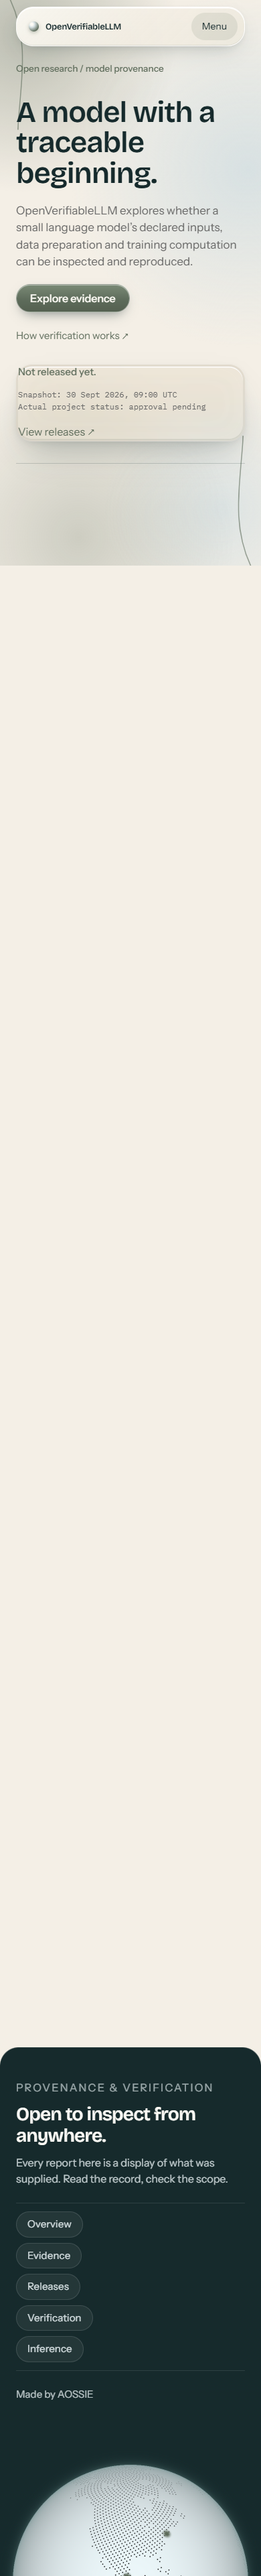
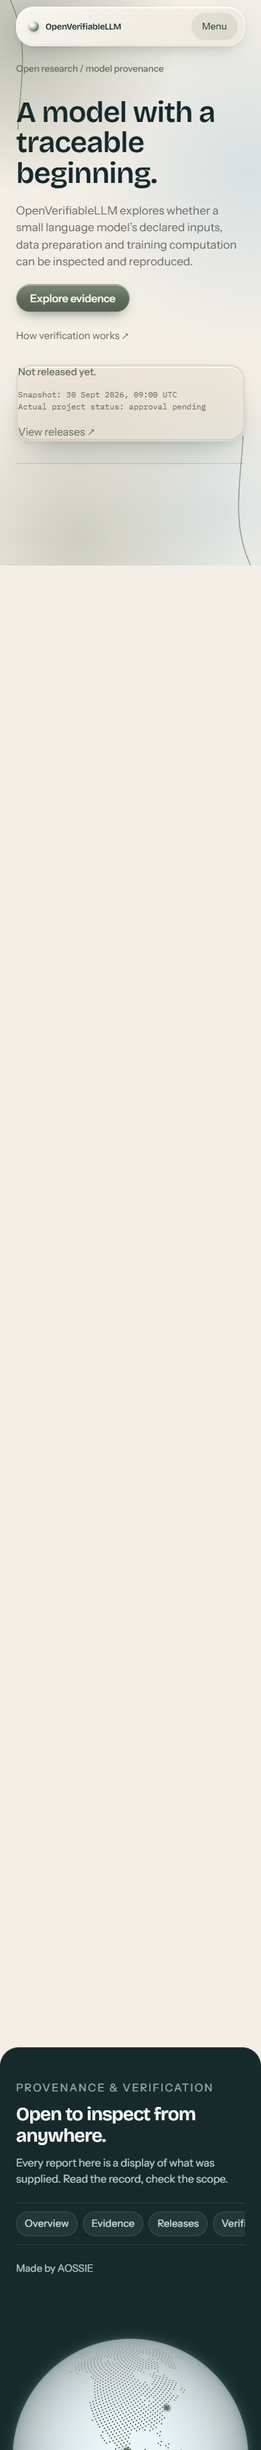
fix(mobile): arrange footer page links in single scrollable row on mobile view

diff --git a/frontend/src/styles.css b/frontend/src/styles.css
@@ -239,8 +239,12 @@ pre { white-space:pre-wrap; overflow-wrap:anywhere; max-height:360px; overflow:a
   .scroll-lines { opacity:.35; } .scroll-card-inner { padding:14px; }
   .footer-title { font-size:28px; } .site-footer { border-radius:28px 28px 0 0; min-height:560px; } .footer-inner { padding-top:48px; padding-bottom:260px; }
   .footer-content { max-width:100%; gap:24px; }
-  .footer-nav { display:flex; flex-direction:column; align-items:flex-start; gap:8px; padding:12px 0; }
-  .footer-nav-link { display:inline-flex; padding:7px 16px; font-size:14px; width:auto; }
+  .footer-nav {
+    display:flex; flex-direction:row; flex-wrap:nowrap; align-items:center; gap:8px;
+    padding:12px 0; overflow-x:auto; -webkit-overflow-scrolling:touch; scrollbar-width:none; max-width:100%;
+  }
+  .footer-nav::-webkit-scrollbar { display:none; }
+  .footer-nav-link { display:inline-flex; flex-shrink:0; padding:6px 12px; font-size:13px; white-space:nowrap; }
   .footer-globe { right:50%; transform:translateX(50%); width:440px; height:440px; bottom:-230px; }
   .release-card { padding:24px; }
   .inference-panel { padding:24px; } .inference-panel h2 { font-size:32px; }
